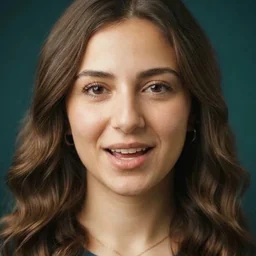
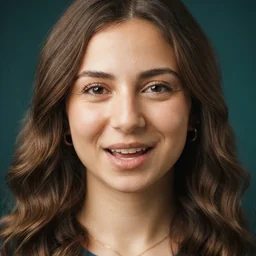
Fulla's lips: talk frame changes only her mouth, in quick syllable-like beats; blink frame changes only her eyes
Claude-Session: https://claude.ai/code/session_016L6vJWUrHZ23whaGtELNH5

diff --git a/public/css/views/front.partials.assistant_avatar.css b/public/css/views/front.partials.assistant_avatar.css
@@ -38,7 +38,7 @@
     opacity: 0;
 }
 .oz-av[data-state="speaking"] .oz-av-talk {
-    animation: ozAvBreath 3.8s ease-in-out infinite, ozAvTalk 0.38s ease-in-out infinite alternate;
+    animation: ozAvBreath 3.8s ease-in-out infinite, ozAvTalk 1.44s linear infinite;
 }
 .oz-av[data-state="speaking"] .oz-av-f {
     animation-name: ozAvNod;
@@ -46,8 +46,8 @@
 }
 .oz-av[data-state="speaking"] .oz-av-talk {
     animation-name: ozAvNod, ozAvTalk;
-    animation-duration: 1.6s, 0.38s;
-    animation-direction: normal, alternate;
+    animation-duration: 1.6s, 1.44s;
+    animation-timing-function: ease-in-out, linear;
 }
 .oz-av[data-state="speaking"] .oz-av-blink {
     animation-name: ozAvNod, ozAvBlink;
@@ -91,7 +91,8 @@
 .oz-av[data-state="thinking"] .oz-av-dots i:nth-child(3) {
     animation-delay: 0.4s;
 }
-/* The frames melt into each other, so the smile and the talking look soft: eyes close and open in about a fifth of a second. */
+/* Eyes close and open in about a fifth of a second. Talking moves like syllables: short uneven beats, each change
+   quick, so there's never a long half-open blur; the talk frame only changes her mouth. */
 @keyframes ozAvBlink {
     0%,
     94.5% {
@@ -106,10 +107,79 @@
     }
 }
 @keyframes ozAvTalk {
-    0% {
-        opacity: 0.05;
+    0.00% {
+        opacity: 0.95;
     }
-    100% {
+    3.75% {
+        opacity: 0;
+    }
+    8.33% {
+        opacity: 0;
+    }
+    12.08% {
+        opacity: 0.98;
+    }
+    16.67% {
+        opacity: 0.98;
+    }
+    20.42% {
+        opacity: 0;
+    }
+    25.00% {
+        opacity: 0;
+    }
+    28.75% {
+        opacity: 0.87;
+    }
+    33.33% {
+        opacity: 0.87;
+    }
+    37.08% {
+        opacity: 0;
+    }
+    41.67% {
+        opacity: 0;
+    }
+    45.42% {
+        opacity: 0.84;
+    }
+    50.00% {
+        opacity: 0.84;
+    }
+    53.75% {
+        opacity: 0.89;
+    }
+    58.33% {
+        opacity: 0.89;
+    }
+    62.08% {
+        opacity: 0;
+    }
+    66.67% {
+        opacity: 0;
+    }
+    70.42% {
+        opacity: 0;
+    }
+    75.00% {
+        opacity: 0;
+    }
+    78.75% {
+        opacity: 0.86;
+    }
+    83.33% {
+        opacity: 0.86;
+    }
+    87.08% {
+        opacity: 0.99;
+    }
+    91.67% {
+        opacity: 0.99;
+    }
+    95.42% {
+        opacity: 0.95;
+    }
+    100.00% {
         opacity: 0.95;
     }
 }
